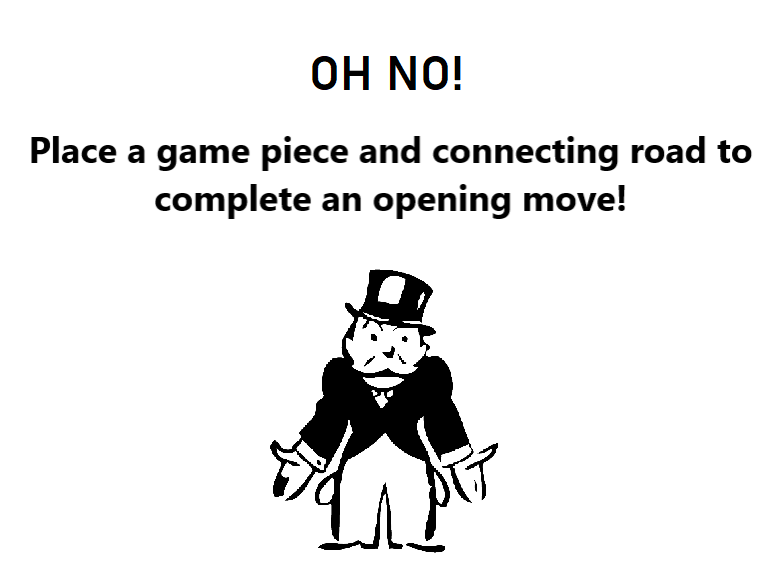
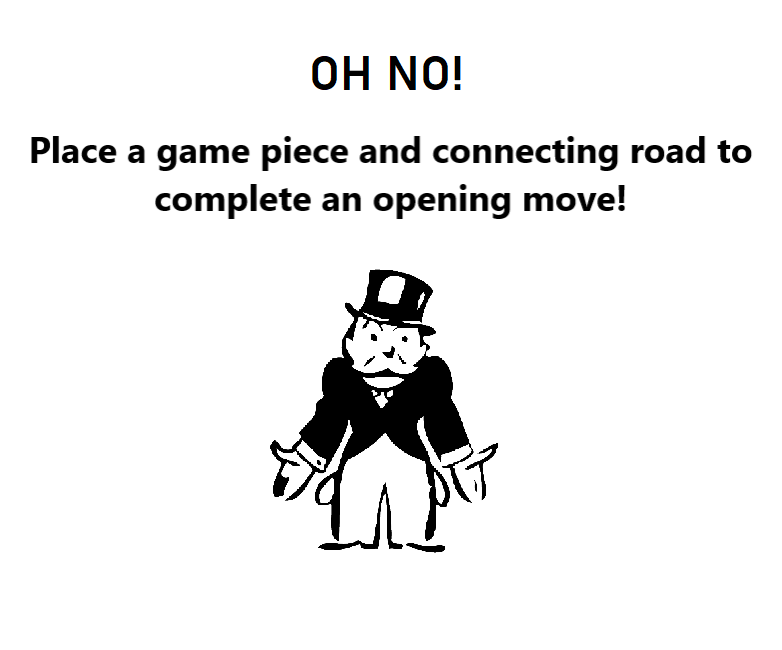
Bad Opening Move Error Message

Changed region(s): [[0.0307, 0.2099, 0.9821, 0.9894], [0.399, 0.0899, 0.6138, 0.1799]]

diff --git a/Assets/Scripts/GameManager.cs b/Assets/Scripts/GameManager.cs
@@ -28,6 +28,7 @@ public class GameManager : MonoBehaviour
     public GameObject longestNetworkMessage;
     public GameObject playerLeftErrorMessage;
     public GameObject generalErrorMessage;
+    public GameObject badOpeningMove;
     public Image playerOneAvatar;
     public Image playerTwoAvatar;
     public Text playerOneScore;
@@ -51,8 +52,9 @@ public class GameManager : MonoBehaviour
         longestNetworkMessage.SetActive(false);
         generalErrorMessage.SetActive(false);
         playerLeftErrorMessage.SetActive(false);
+        badOpeningMove.SetActive(false);
 
-        if(!GameInformation.HumanNetworkProtocol)
+        if (!GameInformation.HumanNetworkProtocol)
             HNPInput.gameObject.SetActive(false);
 
         if(!GameInformation.playerIsHost)
@@ -409,6 +411,11 @@ public class GameManager : MonoBehaviour
                 networkController.SendMove(gameController.getGameBoard().ToString());
                 networkController.SyncPlayerVariables(turnNumber, GameInformation.currentPlayer, ToStringResources(resources));
             }
+            else if (GameInformation.openingSequence)
+            {
+                whistle.Play();
+                badOpeningMove.SetActive(true);
+            }
         }
     }
 
@@ -717,6 +724,11 @@ public class GameManager : MonoBehaviour
                 EndCurrentAIPlayersTurn();
             }
         }
+        else if (GameInformation.openingSequence)
+        {
+            whistle.Play();
+            badOpeningMove.SetActive(true);
+        }
     }
 
     public void AIOpeningMove()
@@ -941,5 +953,10 @@ public class GameManager : MonoBehaviour
                 playerTwoAvatar.sprite = avatars[9];
                 break;
         }
+    }
+
+    public void OnCancelButtonClick(GameObject gb)
+    {
+        gb.SetActive(false);
     }
 }
